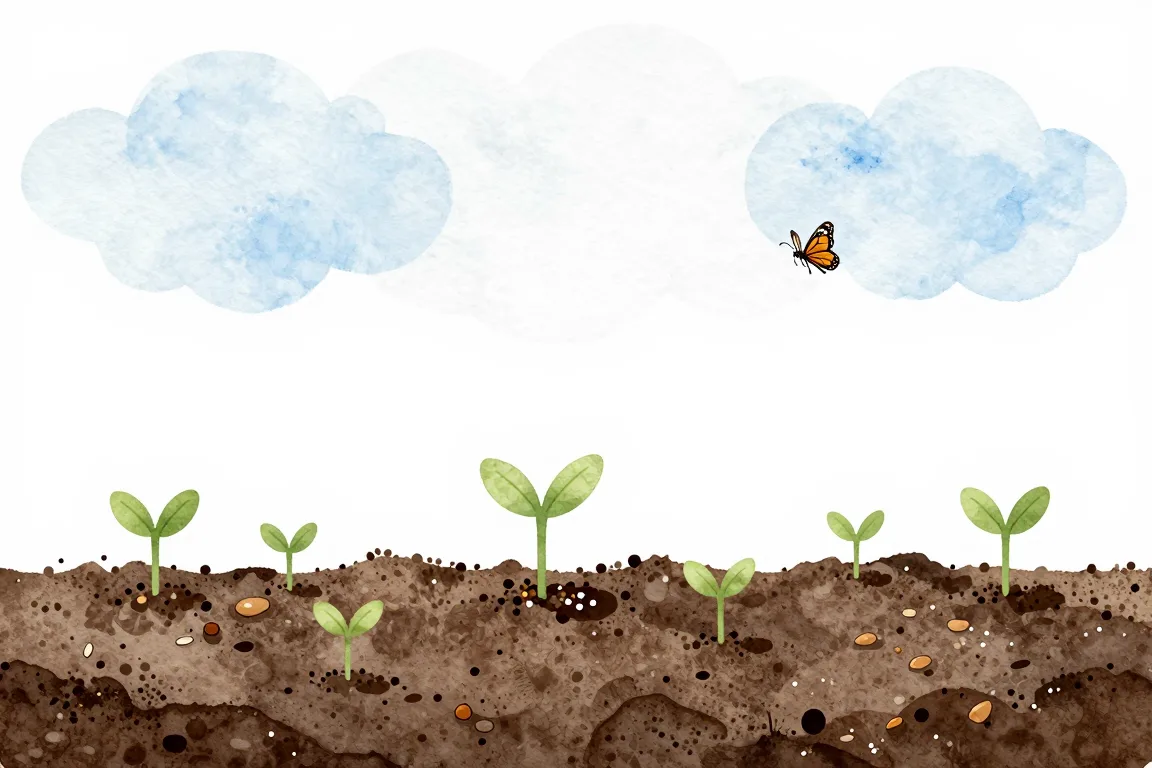
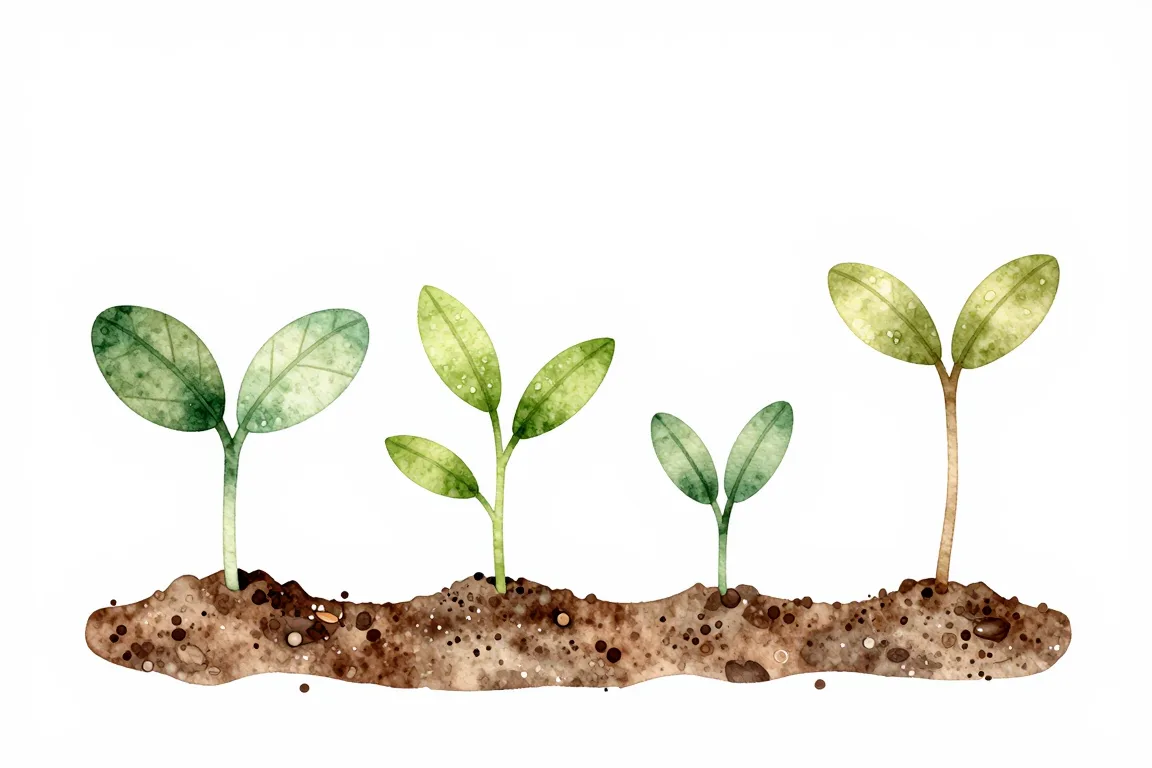
tidying up handbook

diff --git a/src/jg/coop/web/macros/macros.html b/src/jg/coop/web/macros/macros.html
@@ -12,7 +12,7 @@
 
 
 {% macro illustration(path) %}
-<div class="illustration">
+<div class="illustration standout">
   {{ img(path, 'ilustrace', 710, 500, class='illustration-main', lazy=False) }}
   {{ img('static/chick-icon.svg', '', 207, 165, class='illustration-chick', lazy=False) }}
 </div>

diff --git a/src/jg/coop/web/docs/handbook/linkedin.md b/src/jg/coop/web/docs/handbook/linkedin.md
@@ -6,17 +6,21 @@ description: Proč by měl mít každý junior v IT profil na síti LinkedIn? J
 template: main_handbook.html
 ---
 
-{% from 'macros.html' import illustration, blockquote_avatar, note with context %}
+{% from 'macros.html' import illustration, blockquote_avatar, lead, note with context %}
 
 # Profil na LinkedIn
+
+{% call lead() %}
+  LinkedIn není kouzelná hůlka, která ti sama zařídí práci.
+  Pro juniora je to ale důležitá vizitka a místo, kde tě můžou objevit recruiteři a další lidé z IT. Nastav si profil tak, aby rychle ukázal, co umíš a kam směřuješ.
+{% endcall %}
+
+{{ illustration('static/illustrations/linkedin.webp') }}
 
 {% call note(standout=True) %}
   {{ 'exclamation-circle'|icon }} Kapitola se teprve připravuje.
   Mezitím si můžeš přečíst o tom, jak si vyladit [životopis](cv.md).
 {% endcall %}
-
-{{ illustration('static/illustrations/linkedin.webp') }}
-
 
 <!-- {#
 

diff --git a/src/jg/coop/web/docs/handbook/candidate.md b/src/jg/coop/web/docs/handbook/candidate.md
@@ -6,16 +6,21 @@ description: Jak začít hledat svou první práci v IT? Jak se připravit na po
 template: main_handbook.html
 ---
 
-{% from 'macros.html' import blockquote_avatar, blockquote_toxic, jobs_inline, link_card, note, video_card, engeto_video_card with context %}
+{% from 'macros.html' import blockquote_avatar, blockquote_toxic, jobs_inline, lead, link_card, note, video_card, engeto_video_card with context %}
 
 
 # Hledání první práce v IT
 
-{% call note(standout=True) %}
-  {{ 'exclamation-circle'|icon }} Původně se „Příručka“ říkalo pouze této stránce, takže má velkolepý úvod a závěr, jako by tady další stránky ani nebyly. Cílem je postupně tuto dlouhou „nudli“ rozsekávat do kratších samostatných stránek.
+{% call lead() %}
+  Hledání první práce v IT bývá spíš maraton než sprint.
+  Když víš, co firmy u juniorů opravdu čekají, bude se ti hledat mnohem lépe. Tady najdeš realistický plán, jak se připravit a neztratit u toho směr.
 {% endcall %}
 
 [TOC]
+
+{% call note(standout=True) %}
+  {{ 'exclamation-circle'|icon }} Původně se „Příručka“ říkalo pouze této stránce, takže má velkolepý úvod a závěr, jako by tady další stránky ani nebyly. Cílem je postupně tuto dlouhou „nudli“ rozsekávat do kratších samostatných stránek.
+{% endcall %}
 
 ## Úvod    <span id="preface"></span>
 

diff --git a/src/jg/coop/web/docs/handbook/course.md b/src/jg/coop/web/docs/handbook/course.md
@@ -10,14 +10,14 @@ template: main_handbook.html
 
 # Jak vybírat kurz
 
+{{ illustration('static/illustrations/course.webp') }}
+
+[TOC]
+
 {% call note(standout=True) %}
   {{ 'exclamation-circle'|icon }} Kapitola se teprve připravuje.
   Mezitím si můžeš přečíst [Jak si vybrat IT kurz?](https://lucietvrdikova.cz/nahlednete-za-oponu-jak-si-vybrat-it-kurz/) od Lucie Tvrdíkové, což je zatím nejlepší popis téhle problematiky, ačkoliv ne 100% nezávislý.
 {% endcall %}
-
-[TOC]
-
-{{ illustration('static/illustrations/course.webp') }}
 
 ## Stačí kurz?
 

diff --git a/src/jg/coop/web/docs/handbook/git.md b/src/jg/coop/web/docs/handbook/git.md
@@ -6,12 +6,12 @@ description: Co je Git a k čemu se používá? Jaký je rozdíl mezi Gitem a Gi
 template: main_handbook.html
 ---
 
-{% from 'macros.html' import blockquote_avatar, illustration, link_card, note with context %}
+{% from 'macros.html' import blockquote_avatar, illustration, lead, link_card, note with context %}
 
 # Git a GitHub
 
-{% call note(standout=True) %}
-  {{ 'exclamation-circle'|icon }} Kapitola se teprve připravuje.
+{% call lead() %}
+  Když děláš s kódem, bez Gitu se dnes nepohneš. Působí složitě, ale pro začátek stačí chápat k čemu je, a ovládat pár příkazů. Ujasni si rozdíl mezi Gitem a GitHubem a osvoj si základy, které využiješ nejen při spolupráci s dalšími lidmi, ale i na vlastních projektech.
 {% endcall %}
 
 {{ illustration('static/illustrations/git.webp') }}

diff --git a/src/jg/coop/web/docs/handbook/interview.md b/src/jg/coop/web/docs/handbook/interview.md
@@ -10,13 +10,9 @@ template: main_handbook.html
 
 # Pohovor
 
-{% call note(standout=True) %}
-  {{ 'exclamation-circle'|icon }} Kapitola se teprve připravuje.
-{% endcall %}
+{{ illustration('static/illustrations/interview.webp') }}
 
 [TOC]
-
-{{ illustration('static/illustrations/interview.webp') }}
 
 ## Otázky na tebe
 

diff --git a/src/jg/coop/web/docs/handbook/projects.md b/src/jg/coop/web/docs/handbook/projects.md
@@ -6,12 +6,12 @@ description: Pokud se učíš programovat, práce na vlastních projektech je ne
 template: main_handbook.html
 ---
 
-{% from 'macros.html' import blockquote_avatar, illustration, note with context %}
+{% from 'macros.html' import blockquote_avatar, illustration, lead, note with context %}
 
 # Projekty jako první praxe
 
-{% call note(standout=True) %}
-  {{ 'exclamation-circle'|icon }} Kapitola se teprve připravuje.
+{% call lead() %}
+  Vlastní projekt tě naučí přemýšlet jako programátorka nebo programátor. Naučíš se rozkládat velké problémy na menší, řešit záseky a dotahovat věci do konce. A firmám tím ukážeš, že svoje znalosti umíš fakt použít.
 {% endcall %}
 
 {{ illustration('static/illustrations/projects.webp') }}

diff --git a/src/jg/coop/web/docs/handbook/certification.md b/src/jg/coop/web/docs/handbook/certification.md
@@ -14,9 +14,9 @@ template: main_handbook.html
   Certifikace, certifikáty, osvědčení, vysvědčení, diplomy. Jak se v tom vyznat? Které mají na pracovním trhu nějakou váhu a které si naopak můžeš akorát tak založit do šuplíku?
 {% endcall %}
 
-[TOC]
-
 {{ illustration('static/illustrations/certification.webp') }}
+
+[TOC]
 
 ## Co zajímá firmy
 

diff --git a/src/jg/coop/web/docs/handbook/collaboration.md b/src/jg/coop/web/docs/handbook/collaboration.md
@@ -17,9 +17,9 @@ template: main_handbook.html
   Ve skupině je vše veselejší, učení rychlejší, motivace nezlomnější.
 {% endcall %}
 
-[TOC]
-
 {{ illustration('static/illustrations/collaboration.webp') }}
+
+[TOC]
 
 ## Zkus „hackathon“
 

diff --git a/src/jg/coop/web/docs/handbook/cv.md b/src/jg/coop/web/docs/handbook/cv.md
@@ -14,9 +14,9 @@ template: main_handbook.html
   Co dát do životopisu, když jsi junior v IT a nemáš ještě praxi? Tady máš návod na přehledné a úderné CV, ze kterého budou mít recruiteři radost.
 {% endcall %}
 
-[TOC]
-
 {{ illustration('static/illustrations/cv.webp') }}
+
+[TOC]
 
 ## Začni s naší přednáškou a šablonou
 

diff --git a/src/jg/coop/web/docs/handbook/github-profile.md b/src/jg/coop/web/docs/handbook/github-profile.md
@@ -18,6 +18,8 @@ template: main_handbook.html
   Co je opravdu důležité tam mít a co jsou jen bonusy navíc?
 {% endcall %}
 
+{{ illustration('static/illustrations/github-profile.webp') }}
+
 <form id="github-profile-form" action="https://github.com/juniorguru/eggtray/issues/new" target="_blank">
   <fieldset class="github-profile">
     <legend class="github-profile-title">
@@ -40,8 +42,6 @@ template: main_handbook.html
 </form>
 
 [TOC]
-
-{{ illustration('static/illustrations/github-profile.webp') }}
 
 ## GitHub profil? Cože?
 

diff --git a/src/jg/coop/web/docs/handbook/help.md b/src/jg/coop/web/docs/handbook/help.md
@@ -82,10 +82,6 @@ Neboj se ptát, ale zároveň se nauč formulovat dotazy správně. **Žádná o
   ) }}
 </div>
 
-{% call note(standout=True) %}
-  {{ 'exclamation-circle'|icon }} Kapitola se teprve připravuje.
-{% endcall %}
-
 
 <!-- {#
 